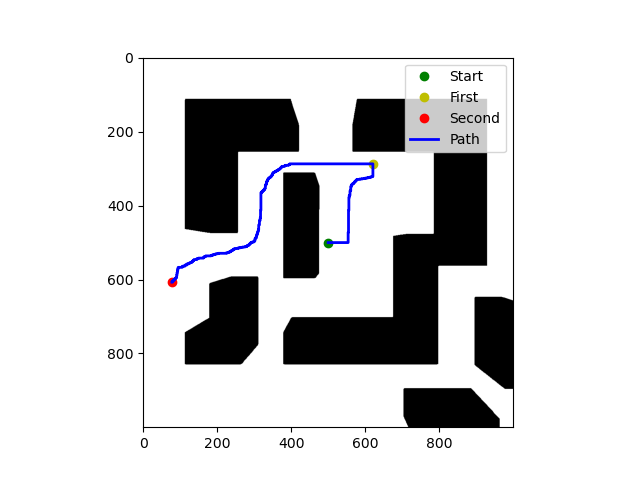
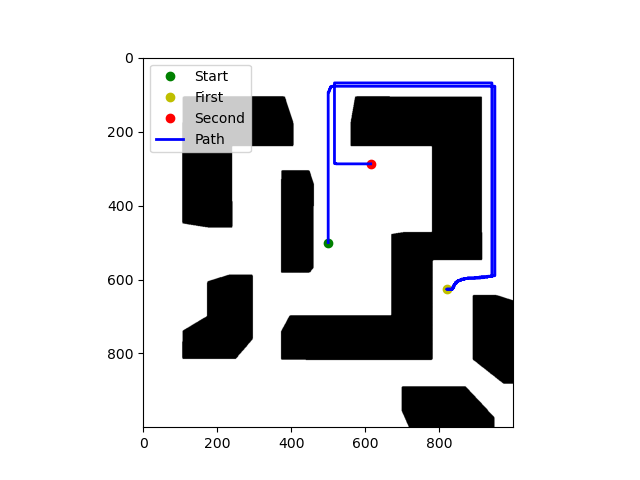
bit_map things

diff --git a/src/swift_pico/scripts/bit_map.py b/src/swift_pico/scripts/bit_map.py
@@ -1,5 +1,6 @@
 #!/usr/bin/env python3
 
+import copy
 import cv2
 import numpy as np
 import cv2.aruco as aruco
@@ -29,7 +30,8 @@ class BitMap(Node):
         
         self.bridge = CvBridge()
         self.cv_image = None
-        self.inflation_pixels = 15
+        self.inflation_pixels = 10
+        # self.inflation_pixels_2 = 100
         self.drone_area = 200
         self.debug = debug
 
@@ -81,6 +83,7 @@ class BitMap(Node):
 
 
         mask = np.ones_like(gray, dtype=np.uint8) * 255
+        mask2 = copy.deepcopy(mask)
 
         for contour in contours:
             area = cv2.contourArea(contour)
@@ -96,6 +99,9 @@ class BitMap(Node):
                 inflated_mask = cv2.dilate(temp_mask, np.ones((self.inflation_pixels, self.inflation_pixels), np.uint8))
                 mask = cv2.bitwise_and(mask, cv2.bitwise_not(inflated_mask))
 
+                # inflated_mask_2 = cv2.dilate(temp_mask, np.ones((self.inflation_pixels_2, self.inflation_pixels_2), np.uint8))
+                # mask2 = cv2.bitwise_and(mask2, cv2.bitwise_not(inflated_mask_2))
+
 
         if self.debug:
             cv2.imshow("Bit Image of Arena", mask)
@@ -103,6 +109,7 @@ class BitMap(Node):
                 raise KeyboardInterrupt
         img_write_path = "/home/loki/pico_ws/src/swift_pico/scripts/2D_bit_map.png"
         print(f" Image saved succesfully: {cv2.imwrite(img_write_path, mask)}")
+        # cv2.imwrite(img_write_path.replace(".png", "_2.png"), mask)
         # print(f"Timer destroyed: {self.destroy_timer(self.get_bitmap_timer)}")
 
     def text_file(self):
